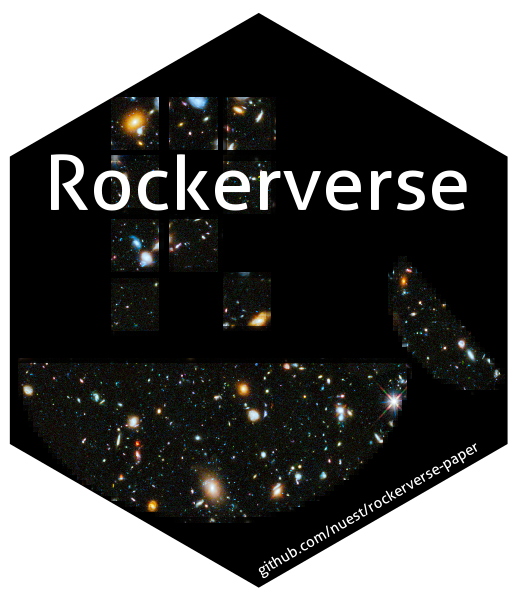
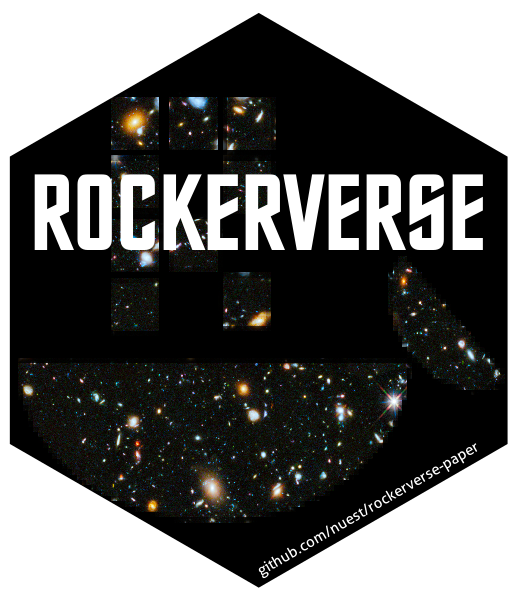
use more suitable font for sticker

Changed region(s): [[0.0618, 0.24, 0.9575, 0.42]]

diff --git a/README.md b/README.md
@@ -23,6 +23,12 @@ originally based on the blog post <http://bit.ly/docker-r>.
 ![Rockerverse hex
 sticker](/home/daniel/git/o2r/rockerverse-paper/rockerverse.png)
 
+Hex sticker uses the font [Final Frontier Old
+Style](https://www.fontspace.com/allen-r-walden/final-frontier-old-style)
+and the [Hubble Ultra-Deep
+Field](https://en.wikipedia.org/wiki/Hubble_Ultra-Deep_Field) combined
+with the Docker logo as background.
+
 ## Render the manuscript with Docker
 
 **Local build**
